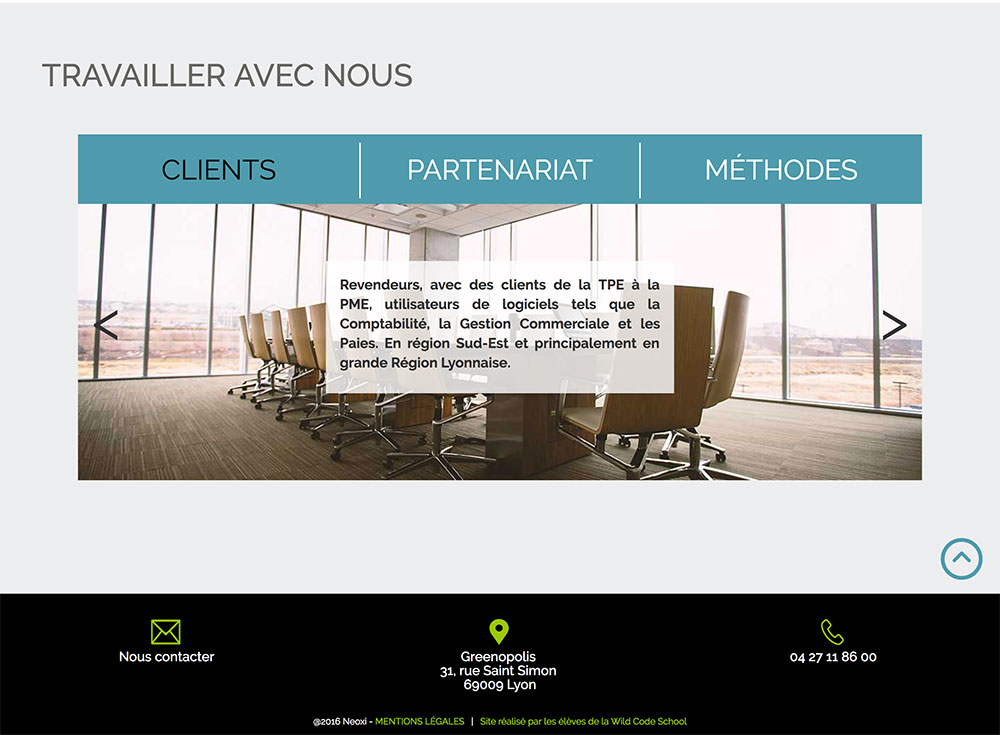
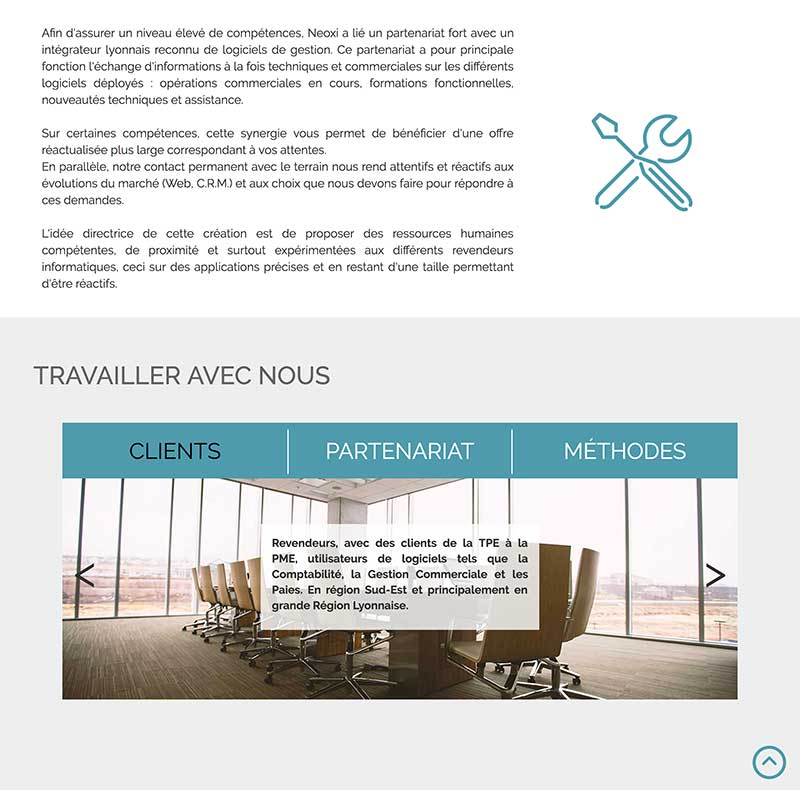
Finished projects pages - added mokups images and stylized it + few more change to finish + footer

diff --git a/app/Resources/front_end/dev/sass/views/_works.sass b/app/Resources/front_end/dev/sass/views/_works.sass
@@ -6,10 +6,15 @@
 #work-pink-color
   background-color: $color2
 
+#work-blue-color
+  background-color: $color4
+
 .work
+  max-width: 100vw
   position: absolute
   top: 0
   z-index: 1
+  background-color: $color1
 
   &-title
     width: 100vw
@@ -18,13 +23,65 @@
     display: flex
     justify-content: center
     a
-      img
+      .arrow-previous
         width: 60px
         height: auto
+        &:hover path
+          fill: $darkest-color
+
     h1
       position: absolute
       bottom: 0
       text-align: center
 
+
+  &-shots
+    width: 100%
+    max-width: 1200px
+    margin-top: 30px
+    padding: 40px
+    column-count: 2
+    column-gap: 20px
+    column-width: 300px
+
+    .box
+      margin-bottom: 20px
+      text-align: center
+      img
+        width: 500px
+        height: auto
+        box-shadow: 0 1px 3px rgba(0,0,0,0.12), 0 1px 2px rgba(0,0,0,0.24)
+        transition: all 0.3s cubic-bezier(.25,.8,.25,1)
+        &:hover
+          box-shadow: 0 14px 28px rgba(0,0,0,0.25), 0 10px 10px rgba(0,0,0,0.22)
+
+  &-mobile
+    text-align: center
+    padding-bottom: 40px
+    .svg
+      width: 200px
+      height: auto
+
+
+//special
+
+.project1
+  .work-shots
+    .three, .six
+      padding-bottom: 40px
+
+.project2
+  .work-shots
+    .two, .four
+      padding-bottom: 40px
+    .four
+      margin-bottom: 0
+
+.project3
+  .work-shots
+    .one, .three
+      padding-bottom: 40px
+    .three
+      margin-bottom: 0
 
 

diff --git a/app/Resources/front_end/dev/sass/views/_media.sass b/app/Resources/front_end/dev/sass/views/_media.sass
@@ -59,10 +59,6 @@
           .text
             top: 20px
 
-  .work-title
-    h1
-      font-size: 2rem
-
   .home-contact
     background-attachment: scroll
     h2
@@ -75,6 +71,34 @@
   .home-inspiration--text
     h2
       font-size: 2.1rem
+
+  .work-title
+    h1
+      font-size: 2rem
+
+  .work-shots
+    padding: 0
+    padding-bottom: 30px
+    .box
+      img
+        width: 300px
+
+  .project1
+    .work-shots
+      .three, .six
+        padding-bottom: 0
+
+  .project2
+    .work-shots
+      .two, .four
+        padding-bottom: 0
+      .four
+        margin-bottom: 20px
+
+  .work-mobile
+    &--mockup
+      margin-bottom: 20px
+
 
 //desktop only
 
@@ -112,6 +136,11 @@
 
   .home-contact
     background-attachment: scroll
+
+  .work-shots
+    .box
+      img
+        width: 400px
 //small tablets
 
 @media (min-width: 768px) and (max-width: 990px)
@@ -149,6 +178,15 @@
   .home-contact
     background-attachment: scroll
 
+  .work-shots
+    .box
+      img
+        width: 300px
+
+  .work-mobile
+    &--mockup
+      margin-bottom: 20px
+
 //every media except mobile
 
 @media (min-width: 768px)
@@ -182,3 +220,8 @@
         .text
           h2
             font-size: 3rem
+
+  .work-shots
+    .box
+      img
+        width: 250px

diff --git a/app/Resources/front_end/dev/sass/views/_home.sass b/app/Resources/front_end/dev/sass/views/_home.sass
@@ -230,4 +230,13 @@
         .px-photos
           margin-left: 20px
 
+  //footer
+  &-footer
+    background-color: $color1
+    .mentions
+      width: 100%
+      text-align: center
+      padding-top: 30px
+      span
+        font-family: $paragraphs-font
 
